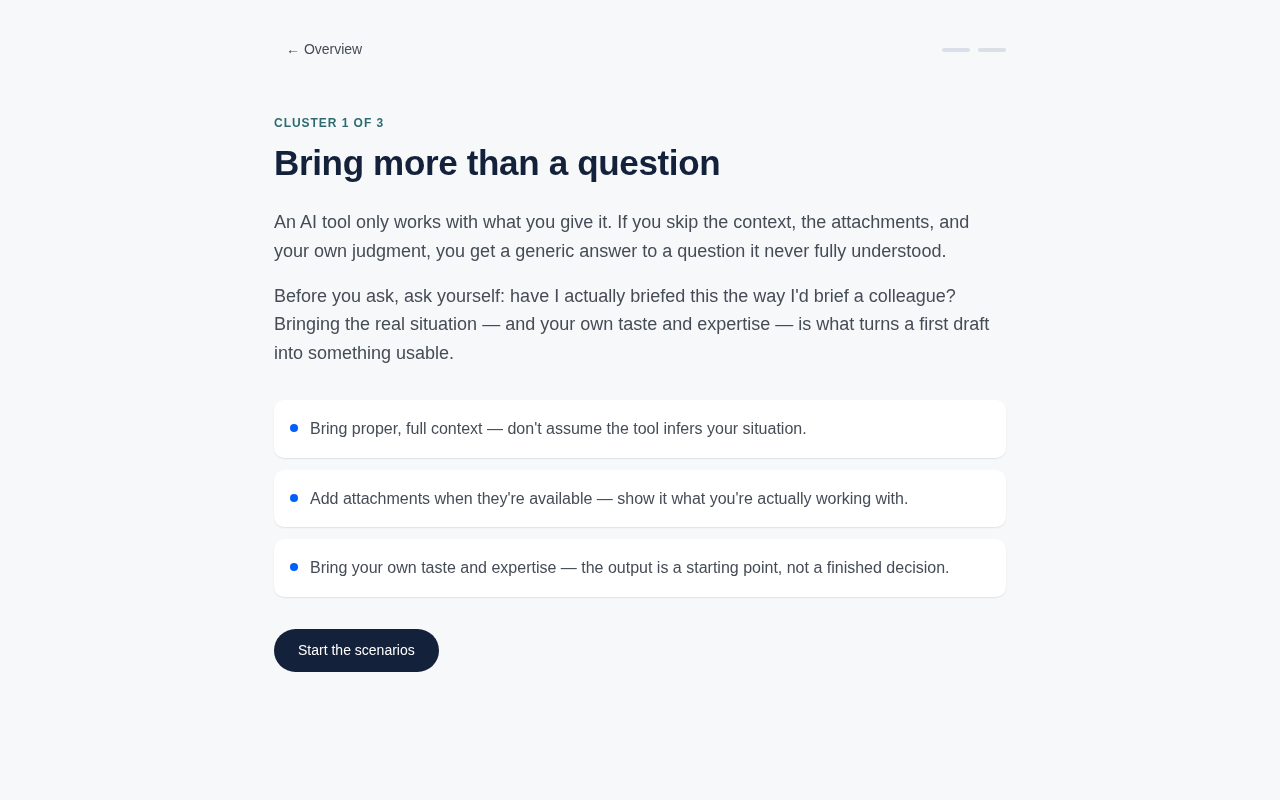
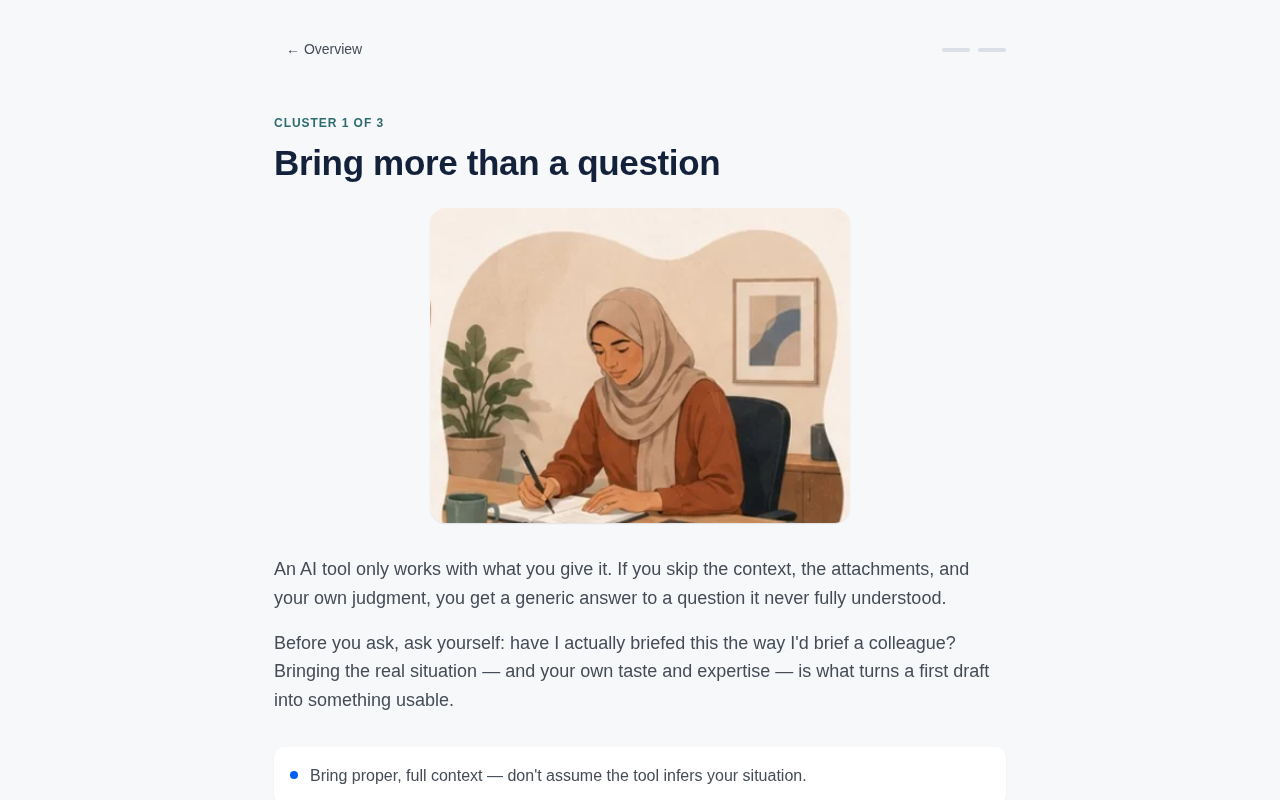
Add supporting scene illustrations to info beats, scenarios, and completion screens
Every info beat, every MCQ scenario, and every section-complete screen now
carries one supporting illustration, picked from a 16-image supplied library
and matched to what that specific screen's copy is actually about (e.g. the
delayed-project email scenario gets someone thinking with a phone in front
of a project wall; the "weigh both the AI and your colleague" scenario gets
two colleagues actually collaborating at a laptop).

Images are placed via a single reused .content-banner treatment so the
pattern reads as one system across all twelve placements. Cropped to WebP
and wired through content.js's image fields per info/question/cluster.

Also corrected the style guide's Motion section, which still described the
pre-refactor two-element Flip handoff instead of the current single-element
card-slot technique, and documented the new illustration set in Imagery.

diff --git a/style-guide.html b/style-guide.html
@@ -307,14 +307,14 @@
 
       <div class="guide-block">
         <h3 class="h3 guide-block-title">The signature transition, in the actual code</h3>
-        <p class="body">The card-to-section move uses GSAP's <strong>Flip</strong> plugin rather than a hand-rolled position tween, because Flip tracks the real First/Last rects for us instead of hard-coding coordinates:</p>
+        <p class="body">The card-to-section move uses GSAP's <strong>Flip</strong> plugin rather than a hand-rolled position tween, and it animates the exact same DOM element the whole way — no hand-off between a card and a separate section overlay, which is what keeps it looking like one object changing size rather than two objects cutting between each other:</p>
         <ol style="padding-left: 1.25em; margin: var(--space-4) 0; display:flex; flex-direction:column; gap: var(--space-2)" class="body">
-          <li><strong>First</strong> — <code>Flip.getState(card)</code> captures the clicked card's exact position and size while it still sits in the grid.</li>
-          <li><strong>Last</strong> — the section element is already laid out full-screen (<code>position:fixed; inset:0</code>) in the DOM, just invisible.</li>
-          <li><strong>Invert &amp; Play</strong> — <code>Flip.from(state, &#123;targets: section&#125;)</code> applies the captured card rect to the section, then animates it to the section's natural full-screen layout — so the section appears to grow out of the card. Sibling cards fade and scale down 6% in parallel so attention stays on the one expanding.</li>
-          <li><strong>Reverse</strong> — on exit, <code>Flip.getState(section)</code> captures the full-screen rect, <code>Flip.fit(section, card)</code> instantly re-parents its geometry onto the card's position, then <code>Flip.from()</code> animates the shrink back — the same technique, run backwards.</li>
+          <li><strong>First</strong> — <code>Flip.getState(card)</code> captures the clicked card's exact grid position and size before anything changes.</li>
+          <li><strong>Last</strong> — adding the <code>is-expanded</code> class switches that same card from a normal grid item to <code>position:fixed; inset:0</code> (full viewport). Its <code>.card-slot</code> wrapper stays behind holding the grid cell open, so the other two cards never reflow.</li>
+          <li><strong>Play</strong> — <code>Flip.from(state)</code> animates the card from the captured grid rect to its new full-screen layout. Sibling cards fade and scale down 6% in a parallel tween so attention stays on the one expanding.</li>
+          <li><strong>Reverse</strong> — on exit, <code>Flip.getState(card)</code> captures the full-screen rect, removing <code>is-expanded</code> snaps it back to its grid layout, and <code>Flip.from(state)</code> animates the shrink — same element, same technique, run backwards.</li>
         </ol>
-        <p class="body guide-block-note">Corner radius is cross-faded from 20px (card) to 0 (full-bleed section) across the same duration, which is what sells the "one object changing size," not two objects cutting between each other.</p>
+        <p class="body guide-block-note">Corner radius is cross-faded from 20px (card) to 0 (full-bleed section) across the same duration, reinforcing the same idea.</p>
       </div>
     </section>
 
@@ -332,6 +332,35 @@
           <strong>Treatment:</strong> a person at a laptop, one per cluster, each paired with a small floating UI callout that visualizes that cluster's behavior — a document mid-transfer for Bring, a source-comparison checklist for Verify, an approved-edit card for Stay Present. Soft gradient backgrounds in each cluster's own hue keep the set feeling like one family instead of three stock photos.<br>
           <strong>Production:</strong> AI-generated illustrations, supplied as finished source art and cropped for use as card and section imagery. The originals were composed as complete mockups with their own title/body copy baked into the pixels; that text was cropped away and rebuilt as real HTML (see Components) so the copy stays editable and matches the module's actual content rather than the placeholder wording in the source render. Exported to WebP for weight.<br>
           <strong>Direction given:</strong> a single professional at a desk, mid-task, styled consistently across all three (same rendering style, same desk/laptop setup, same soft-gradient backdrop), with one small floating UI card per illustration that makes that cluster's concept literal rather than abstract — source-checking for Verify, an approved edit for Stay Present, a file being handed off for Bring.
+        </p>
+      </div>
+
+      <div class="guide-block">
+        <h3 class="h3 guide-block-title">Supporting scene illustrations</h3>
+        <div class="demo-grid-3">
+          <div>
+            <span class="demo-label">Bring — Scenario 1</span>
+            <div class="card-art" style="border-radius:var(--radius-lg); aspect-ratio:4/3">
+              <img src="assets/illustrations/scenes/bring-q1.webp" alt="" style="object-position:50% 20%">
+            </div>
+          </div>
+          <div>
+            <span class="demo-label">Verify — Info beat</span>
+            <div class="card-art" style="border-radius:var(--radius-lg); aspect-ratio:4/3">
+              <img src="assets/illustrations/scenes/verify-info.webp" alt="" style="object-position:50% 20%">
+            </div>
+          </div>
+          <div>
+            <span class="demo-label">Stay Present — Scenario 1</span>
+            <div class="card-art" style="border-radius:var(--radius-lg); aspect-ratio:4/3">
+              <img src="assets/illustrations/scenes/present-q1.webp" alt="" style="object-position:50% 20%">
+            </div>
+          </div>
+        </div>
+        <p class="body guide-block-note" style="margin-top:var(--space-6)">
+          A second, separate illustration set — a broader library of everyday workplace moments (presenting, reviewing a printout, a hallway phone call, a video call) rather than the three cluster-branded hero pieces above. One image is placed on every info beat, every scenario, and every completion screen: twelve in total, one per screen, hand-picked from a sixteen-image supplied library rather than generated to spec.<br>
+          <strong>Selection rule:</strong> each image was matched to what that specific screen's copy is actually about, not assigned round-robin — the "delayed client project" scenario gets a person thinking with a phone in front of a project wall; the "polished first draft" scenario gets someone reviewing a printout, pen in hand; "weigh both the AI and your colleague" gets two colleagues actually collaborating at a laptop. The pairing is meant to be legible on its own, before reading a word of the copy.<br>
+          <strong>Treatment:</strong> same slot everywhere — a single <code>.content-banner</code> component, max-width 420px, centered, rounded corners, one shadow. Screens vary in content but never in how the image is framed.
         </p>
       </div>
     </section>

diff --git a/js/content.js b/js/content.js
@@ -11,7 +11,9 @@ const CONTENT = {
       title: "Bring",
       dek: "Bring real material — and yourself — to the interaction.",
       accent: "bring",
+      completeImage: "bring-complete.webp",
       info: {
+        image: "bring-info.webp",
         eyebrow: "Cluster 1 of 3",
         heading: "Bring more than a question",
         body: [
@@ -26,6 +28,7 @@ const CONTENT = {
       },
       questions: [
         {
+          image: "bring-q1.webp",
           prompt:
             "You need a client email about a delayed project. You type: “Write an email telling the client we're delayed.” What's missing from this request?",
           options: [
@@ -41,6 +44,7 @@ const CONTENT = {
             "Right. The tool can only work with what it's handed — the real specifics are what turn a generic draft into a usable one.",
         },
         {
+          image: "bring-q2.webp",
           prompt:
             "An AI tool hands you a polished-looking first draft of a proposal. What should you do next?",
           options: [
@@ -63,7 +67,9 @@ const CONTENT = {
       title: "Verify",
       dek: "Don't extend automatic trust — to the output or your own reaction to it.",
       accent: "verify",
+      completeImage: "verify-complete.webp",
       info: {
+        image: "verify-info.webp",
         eyebrow: "Cluster 2 of 3",
         heading: "Trust, but check",
         body: [
@@ -79,6 +85,7 @@ const CONTENT = {
       },
       questions: [
         {
+          image: "verify-q1.webp",
           prompt:
             "You ask an AI tool to check your reasoning on a decision. It responds: “This is an excellent approach!” What should that tell you?",
           options: [
@@ -94,6 +101,7 @@ const CONTENT = {
             "Right. A confident, agreeable answer still needs the same scrutiny as a flat, hedged one.",
         },
         {
+          image: "verify-q2.webp",
           prompt:
             "An AI-drafted report cites a statistic you're about to put in a client presentation. What should you do before it goes in the deck?",
           options: [
@@ -116,7 +124,9 @@ const CONTENT = {
       title: "Stay Present",
       dek: "Stay the visible, accountable human in the work.",
       accent: "present",
+      completeImage: "present-complete.webp",
       info: {
+        image: "present-info.webp",
         eyebrow: "Cluster 3 of 3",
         heading: "Don't disappear behind the tool",
         body: [
@@ -131,6 +141,7 @@ const CONTENT = {
       },
       questions: [
         {
+          image: "present-q1.webp",
           prompt:
             "An AI tool recommends a course of action based on the data you gave it. A trusted colleague raises a concern from experience the data doesn't capture. What should you do?",
           options: [
@@ -146,6 +157,7 @@ const CONTENT = {
             "Right. AI input is one input among others — the call is still yours to weigh, not the model's to settle.",
         },
         {
+          image: "present-q2.webp",
           prompt:
             "You use AI to draft a difficult, personal message to a direct report about a performance issue. What's the right way to handle sending it?",
           options: [

diff --git a/js/app.js b/js/app.js
@@ -105,6 +105,7 @@
           <div class="section-content info-beat" data-view="info">
             <span class="eyebrow">${cluster.info.eyebrow}</span>
             <h1 class="h1">${cluster.info.heading}</h1>
+            <img class="content-banner" src="assets/illustrations/scenes/${cluster.info.image}" alt="">
             ${cluster.info.body.map((p) => `<p class="body-lg">${p}</p>`).join("")}
             <ul class="point-list">
               ${cluster.info.points.map((pt) => `<li class="body">${pt}</li>`).join("")}
@@ -120,6 +121,7 @@
                 <span class="scenario-number">${qi + 1}</span>
                 <span class="label" style="color:var(--color-gray-500)">Scenario ${qi + 1} of ${cluster.questions.length}</span>
               </div>
+              <img class="content-banner" src="assets/illustrations/scenes/${q.image}" alt="">
               <h2 class="scenario-prompt">${q.prompt}</h2>
               <div class="option-list" role="group" aria-label="Answer options">
                 ${q.options
@@ -162,6 +164,7 @@
             <div class="badge-check" aria-hidden="true">✓</div>
             <h1 class="h1">${cluster.title} — complete</h1>
             <p class="body-lg">Both scenarios answered. That badge is now checked off on the overview.</p>
+            <img class="content-banner" src="assets/illustrations/scenes/${cluster.completeImage}" alt="">
             <div class="actions">
               <button class="btn btn-primary" data-action="exit">Back to overview</button>
             </div>

diff --git a/css/styles.css b/css/styles.css
@@ -198,6 +198,18 @@ a { color: var(--color-teal-600); }
 .section-content.is-active { display: block; }
 .section-content.is-visible { opacity: 1; transition: opacity var(--duration-system) var(--ease-out); }
 
+/* Supporting scene illustration — one shared treatment reused across the
+   info beat, each scenario, and the completion screen, so it reads as one
+   recurring pattern rather than a different decoration per screen. */
+.content-banner {
+  display: block;
+  width: 100%;
+  max-width: 420px;
+  margin: 0 auto var(--space-8);
+  border-radius: var(--radius-lg);
+  box-shadow: var(--shadow-resting);
+}
+
 .info-beat .eyebrow { display: block; margin-bottom: var(--space-3); }
 .info-beat .h1 { color: var(--color-ink-900); margin-bottom: var(--space-6); }
 .info-beat p + p { margin-top: var(--space-4); }
@@ -301,6 +313,7 @@ a { color: var(--color-teal-600); }
   display: grid; place-items: center; font-size: 1.75rem;
 }
 .section-complete .h1 { color: var(--color-ink-900); margin-bottom: var(--space-3); }
+.section-complete .content-banner { margin-top: var(--space-8); }
 .section-complete .actions { margin-top: var(--space-8); display: flex; justify-content: center; }
 
 /* ---- Callouts (used in style guide + reused as a component) ---- */
